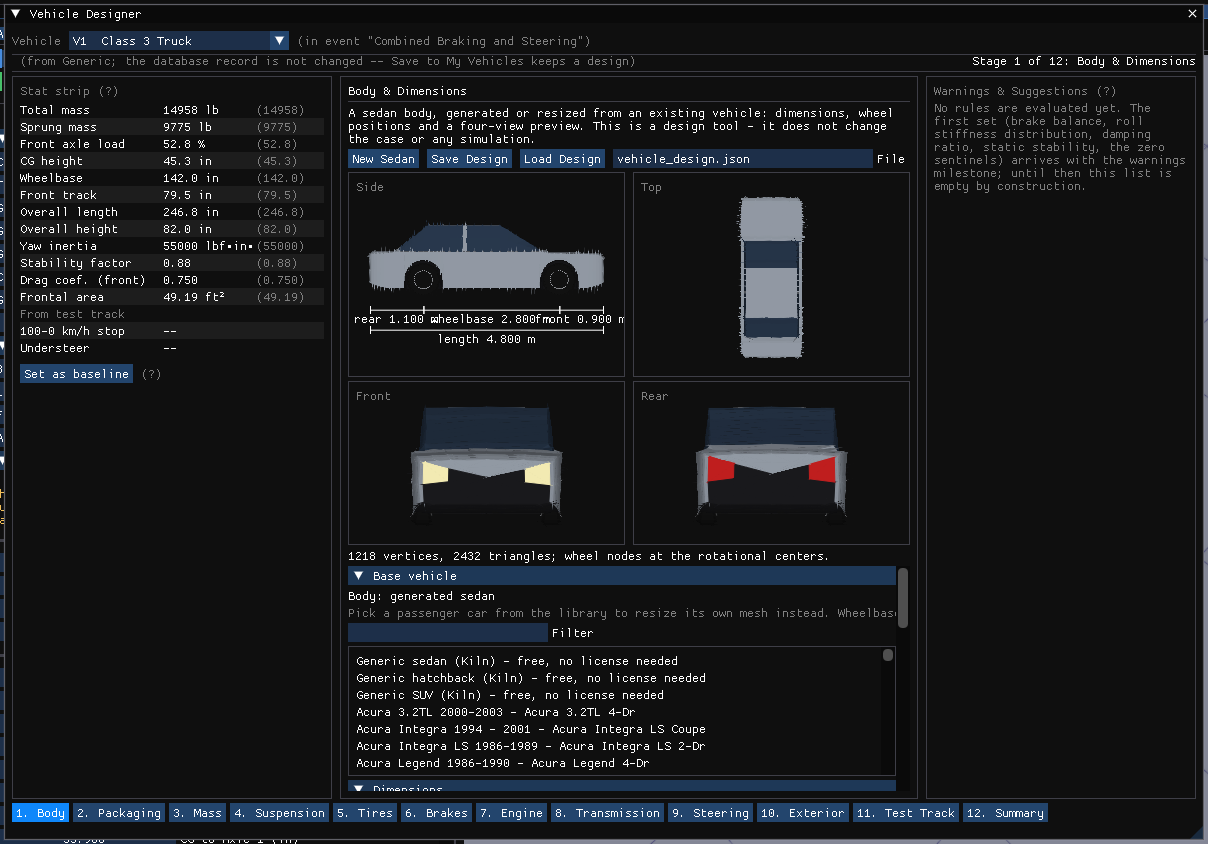
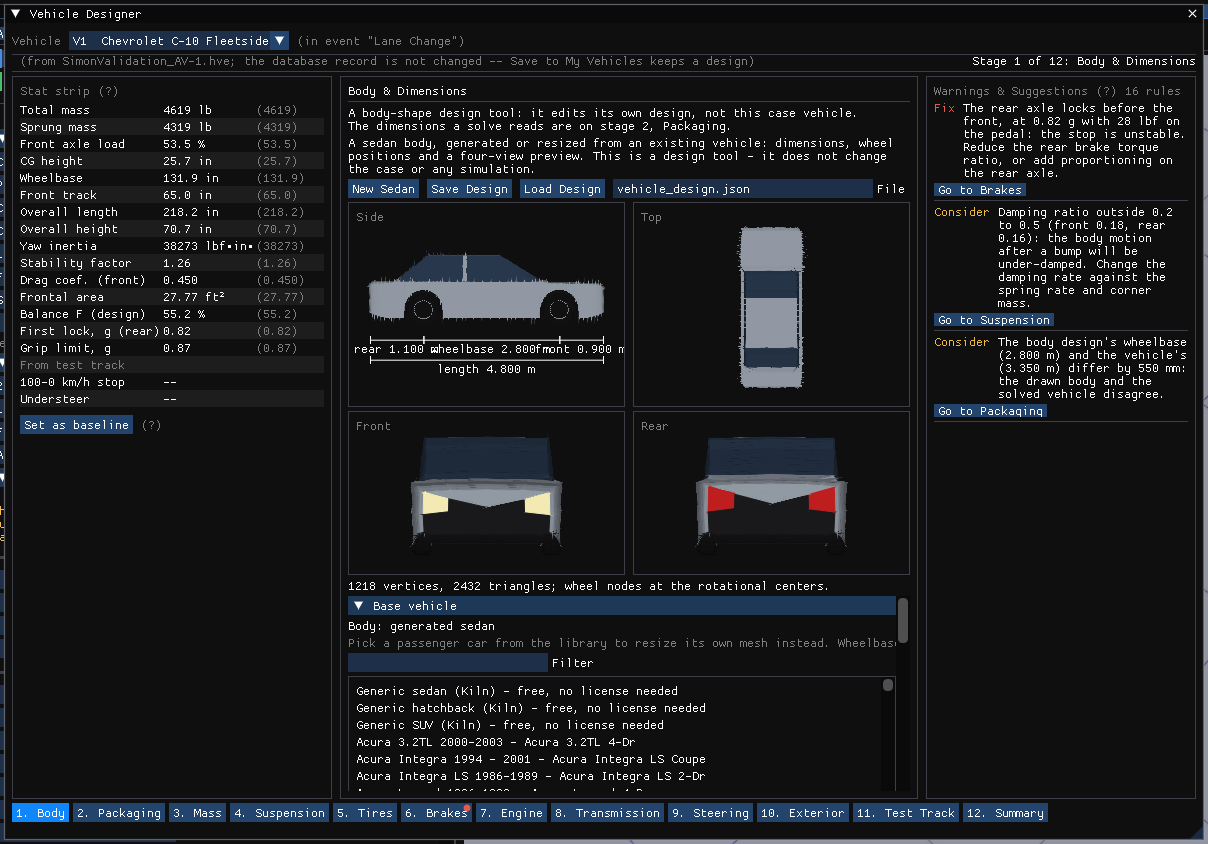
HVE 2027 manuals: sync from hve-next 4ca40429
Vehicle Designer: the Packaging stage holds Configuration and Size & Weight (M5a); the Body stage says it is a body-shape tool. Figures 12-1 and 12-12.

Claude-Session: https://claude.ai/code/session_01ExFGmXKkveRikV1Nmb9fu5

diff --git a/hve2027/docs/manuals/hve-users/04-vehicle-editor/12-vehicle-designer.md b/hve2027/docs/manuals/hve-users/04-vehicle-editor/12-vehicle-designer.md
@@ -50,8 +50,15 @@ Track and Summary stages say what they will do and do nothing yet.
 
 ### Stage 2: Packaging
 
-The Packaging stage hosts the **Vehicle Package** wizard that **Tools › Vehicle
-Package...** opens, pinned to the designer's vehicle: **1. Identify** (the VIN
+The Packaging stage holds the dimensions a solve reads. It opens with the two
+sections the Vehicles panel has: **Configuration** (number of axles, driver
+location, engine location and drive axles, with HVE's rules applied as you
+change one) and **Size & Weight** (HVE's Vehicle Wizard form, applied as you
+type: wheelbase, tracks, lengths, weights and CG, with the wheelbase check and
+the **Details** tables underneath). They are the panel's own sections, not
+copies: a field has one editor. Under them, folded, is the **Vehicle Package**
+wizard that **Tools › Vehicle Package...** opens, pinned to the designer's
+vehicle: **1. Identify** (the VIN
 and what decoding it says, or the year, make, model and trim), **2.
 Specifications** (weight, front axle share, wheelbase, front and rear track,
 length, width, height and CG height, each marked Stated or Looked up with its
@@ -276,6 +283,11 @@ the wheel's rotational center: its height above the ground is the tire radius.
 Wheel names are **wheel_FL**, **wheel_FR**, **wheel_RL** and **wheel_RR**.
 
 ## Stage 1: Body
+
+The Body stage is a body-shape design tool: it edits its own design, saved to
+its own design file, and never the case vehicle, so a wheelbase changed here
+changes nothing a solve reads. The case vehicle's dimensions are on stage 2,
+Packaging; the stage says so above its controls.
 
 The body stage builds a recognizable sedan body from a short list of
 dimensions, with the wheels at their axle positions, and shows it in four views
